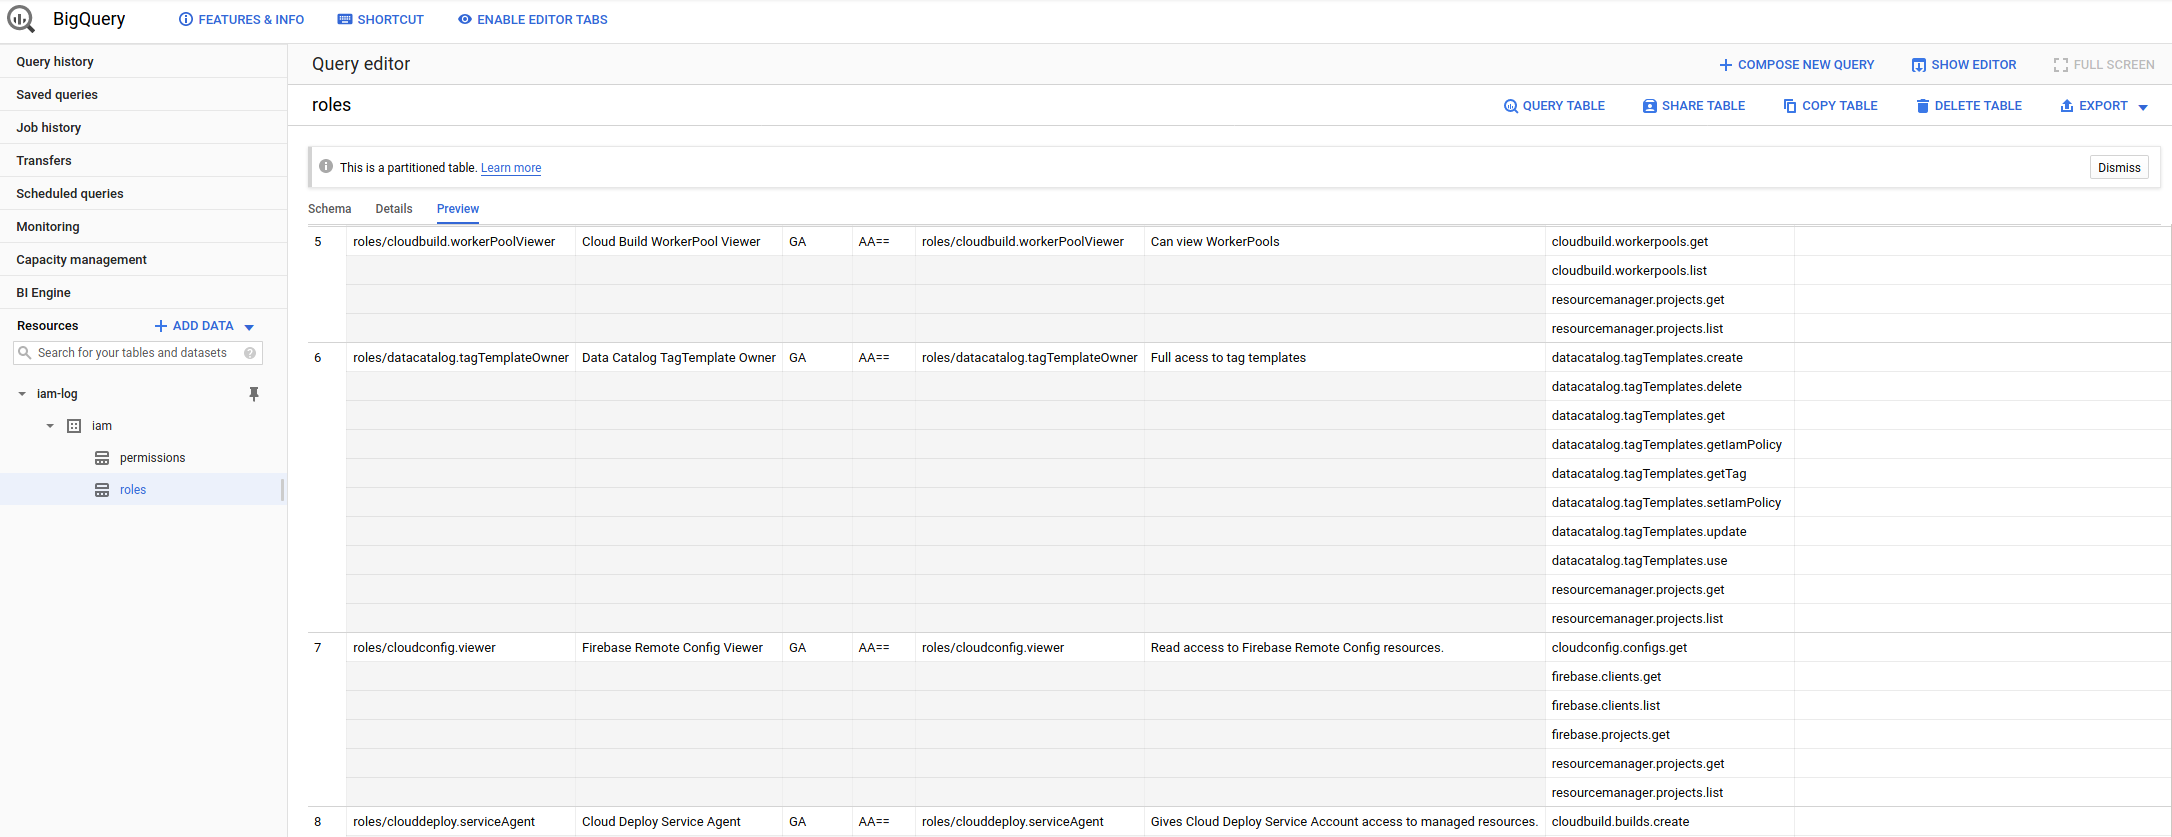
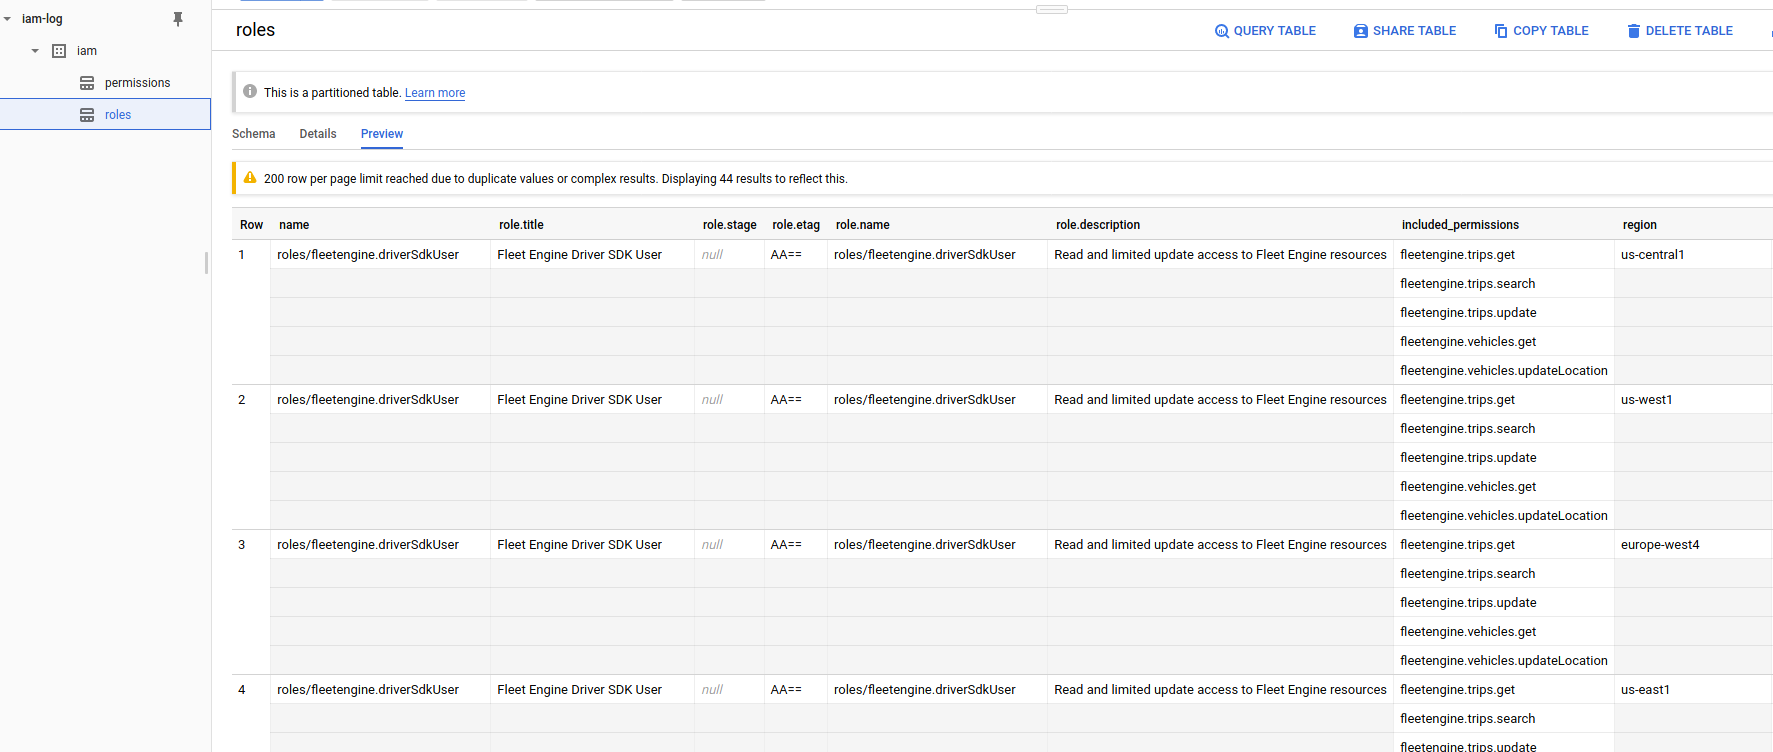
add all regions

diff --git a/server.go b/server.go
@@ -27,6 +27,7 @@ type Role struct {
 	Name                string   `json:"name"`
 	Role                iam.Role `json:"role"`
 	IncludedPermissions []string `json:"included_permissions"`
+	Region              string   `json:"region"`
 }
 
 type Permissions struct {
@@ -35,8 +36,9 @@ type Permissions struct {
 
 type Permission struct {
 	//Permission iam.Permission // there's no direct way to query a given permission detail!
-	Name  string   `json:"name"`
-	Roles []string `json:"roles"`
+	Name   string   `json:"name"`
+	Roles  []string `json:"roles"`
+	Region string   `json:"region"`
 }
 
 const (
@@ -56,6 +58,7 @@ var (
 	projects    = make([]*cloudresourcemanager.Project, 0)
 	bqDataset   = flag.String("bqDataset", os.Getenv("BQ_DATASET"), "BigQuery Dataset to write to")
 	bqProjectID = flag.String("bqProjectID", os.Getenv("BQ_PROJECTID"), "Project for the BigQuery Dataset to write to")
+	region      = flag.String("region", os.Getenv("REGION"), "Region where IAM roles/permissions query is run")
 	permissions = &Permissions{}
 	roles       = &Roles{}
 	limiter     *rate.Limiter
@@ -74,16 +77,18 @@ var (
 				{Name: "description", Type: bigquery.StringFieldType},
 			}},
 		{Name: "included_permissions", Type: bigquery.StringFieldType, Repeated: true},
+		{Name: "region", Type: bigquery.StringFieldType, Required: true},
 	}
 
 	permissionsSchema = bigquery.Schema{
 		{Name: "name", Type: bigquery.StringFieldType, Required: true},
 		{Name: "roles", Type: bigquery.StringFieldType, Repeated: true},
+		{Name: "region", Type: bigquery.StringFieldType, Required: true},
 	}
 )
 
 func fronthandler(w http.ResponseWriter, r *http.Request) {
-	fmt.Println("/ called")
+	fmt.Printf("/ called for region %s\n", *region)
 
 	ctx := context.Background()
 	crmService, err := cloudresourcemanager.NewService(ctx)
@@ -201,7 +206,7 @@ func fronthandler(w http.ResponseWriter, r *http.Request) {
 			return
 		}
 	}
-	fmt.Printf("Uploading [%d] Roles\n", len(roles.Roles))
+	fmt.Printf("Uploading [%d] Roles from region [%s]\n", len(roles.Roles), *region)
 
 	var rlines []string
 	for _, v := range roles.Roles {
@@ -270,7 +275,7 @@ func fronthandler(w http.ResponseWriter, r *http.Request) {
 		}
 	}
 
-	fmt.Printf("Uploading [%d] Permissions\n", len(permissions.Permissions))
+	fmt.Printf("Uploading [%d] Permissions from region [%s]\n", len(permissions.Permissions), *region)
 
 	var plines []string
 	for _, v := range permissions.Permissions {
@@ -362,6 +367,7 @@ func generateMap(ctx context.Context, parent string) error {
 					Name:                sa.Name,
 					Role:                *sa,
 					IncludedPermissions: rc.IncludedPermissions,
+					Region:              *region,
 				}
 				cmutex.Lock()
 				_, ok := find(roles.Roles, sa.Name)
@@ -377,8 +383,9 @@ func generateMap(ctx context.Context, parent string) error {
 					i, ok := find(permissions.Permissions, perm)
 					if !ok {
 						permissions.Permissions = append(permissions.Permissions, Permission{
-							Name:  perm,
-							Roles: []string{sa.Name},
+							Name:   perm,
+							Roles:  []string{sa.Name},
+							Region: *region,
 						})
 					} else {
 						p := permissions.Permissions[i]

diff --git a/README.md b/README.md
@@ -5,7 +5,7 @@ Bigquery DataSet that contains a daily snapshot of all _Standard_ Google Cloud I
 
 Its like this:
 
-1. Everyday at 1am bora-bora time, a cloud scheduler securely triggers a Cloud Run application
+1. Everyday at 1am bora-bora time, a cloud scheduler securely triggers  Cloud Run application in various global regions
 2. Cloud Run iterates over all Roles and Permissions Google Cloud Publishes
 3. Cloud Run loads Permissions and Roles into two [daily partitioned tables](https://cloud.google.com/bigquery/docs/partitioned-tables#ingestion_time) in a *PUBLIC* BigQuery Dataset
 4. Users query the two tables to see daily differences in new Roles and Permissions GCP published
@@ -27,6 +27,11 @@ $ bq show --format=prettyjson --schema iam-log:iam.permissions
   {
     "mode": "REPEATED",
     "name": "roles",
+    "type": "STRING"
+  },
+  {
+    "mode": "REQUIRED",
+    "name": "region",
     "type": "STRING"
   }
 ]
@@ -73,13 +78,17 @@ $ bq show --format=prettyjson --schema iam-log:iam.roles
     "mode": "REPEATED",
     "name": "included_permissions",
     "type": "STRING"
-  }
+  },
+  {
+    "mode": "REQUIRED",
+    "name": "region",
+    "type": "STRING"
+  }  
 ]
 ```
 
 ![images/roles.png](images/roles.png)
 
->> Note IAM permissions and roles rollout gradually in different regions.  The permission/role set retrieved by cloud run on any given day will reflect the state/view at that cell that cloud run connected to to retrieved the roles/permissions
 ### But wait, i want to same thing for my custom roles in my org?
 
 thats not a problem, you're free to run your own (see the `diy` section below).
@@ -130,8 +139,9 @@ SELECT
 FROM
   iam-log.iam.permissions AS d1, UNNEST(roles) r1
 WHERE
-  d1._PARTITIONTIME = TIMESTAMP("2021-09-18")
+  d1._PARTITIONTIME = TIMESTAMP("2021-09-19")
   AND d1.name = "storage.objects.get"
+  AND d1.region = "us-central1"
 '
 ```
 
@@ -144,10 +154,12 @@ bq query --nouse_legacy_sql  '
 SELECT
   p1
 FROM
-  iam-log.iam.roles as d1, UNNEST(included_permissions) p1
+  iam-log.iam.roles AS d1,
+  UNNEST(included_permissions) p1
 WHERE
-  d1._PARTITIONTIME = TIMESTAMP("2021-09-18")
+  d1._PARTITIONTIME = TIMESTAMP("2021-09-19")
   AND d1.name = "roles/serverless.serviceAgent"
+  AND d1.region = "us-central1"
 '
 ```
 
@@ -161,13 +173,15 @@ FROM
   iam-log.iam.roles AS d1
 WHERE
   d1._PARTITIONTIME = TIMESTAMP("2021-09-20")
+  AND d1.region = "us-central1"
   AND d1.name NOT IN (
   SELECT
     d2.name
   FROM
     iam-log.iam.roles AS d2
   WHERE
-    d2._PARTITIONTIME = TIMESTAMP("2021-09-19"))
+    d2._PARTITIONTIME = TIMESTAMP("2021-09-19")
+    AND d2.region = "us-central1")
 '
 ```
 
@@ -181,13 +195,144 @@ FROM
   iam-log.iam.permissions AS d1
 WHERE
   d1._PARTITIONTIME = TIMESTAMP("2021-09-20")
+  AND d1.region = "us-central1"  
   AND d1.name NOT IN (
   SELECT
     d2.name
   FROM
     iam-log.iam.permissions AS d2
   WHERE
-    d2._PARTITIONTIME = TIMESTAMP("2021-09-19"))
+    d2._PARTITIONTIME = TIMESTAMP("2021-09-19")
+    AND d2.region = "us-central1")
+'
+```
+
+#### Find which Permissions added/removed permissions between two regions on the same day
+
+IAM permissions and roles rollout gradually in different regions.  The permission/role set retrieved by cloud run on any given day will reflect the state/view at that cell that cloud run connected to to retrieved the roles/permissions
+
+To (somewhat imprecisely) account for this, this script deploys about several different cloud run instances in different [Cloud Run Regions](https://cloud.google.com/run/docs/locations) globally.  The idea is that each cloud run instance that is invoked will query the IAM permission active sets within a region.  This is ofcourse not a guarantee since a CR instance can query a different region, but its likely that it stays in region and reflects a local map.   This script also just iterates over the following regions that are globally available.  If needed, tune this to your needs for wherever you deploy within your organization
+
+```bash
+export REGIONS=asia-east1,asia-northeast1,asia-northeast2,europe-north1,europe-west1,europe-west4,us-central1,us-east1,us-east4,us-west1,asia-east2,asia-northeast3,asia-southeast1,asia-southeast2,asia-south1,asia-south2,australia-southeast1,australia-southeast2,europe-central2,europe-west2,europe-west3,europe-west6,northamerica-northeast1,northamerica-northeast2,southamerica-east1,us-west2,us-west3,us-west4
+```
+
+To see the differences in permissions today between two regions:
+
+```sql
+$ bq query --nouse_legacy_sql  '
+SELECT
+  d1.name
+FROM
+  iam-log.iam.permissions AS d1
+WHERE
+  d1._PARTITIONTIME = TIMESTAMP("2021-09-19")
+  AND d1.region = "us-east4"  
+  AND d1.name NOT IN (
+  SELECT
+    d2.name
+  FROM
+    iam-log.iam.permissions AS d2
+  WHERE
+    d2._PARTITIONTIME = TIMESTAMP("2021-09-19")
+    AND d2.region = "us-central1")
+'
+
+    +-------------------------------------------------------------------+
+    |                               name                                |
+    +-------------------------------------------------------------------+
+    | recommender.cloudsqlIdleInstanceRecommendations.update            |
+    | recommender.cloudsqlInstanceActivityInsights.update               |
+    | recommender.cloudsqlInstanceCpuUsageInsights.update               |
+    | recommender.cloudsqlInstanceMemoryUsageInsights.update            |
+    | recommender.cloudsqlOverprovisionedInstanceRecommendations.update |
+    | recommender.cloudsqlIdleInstanceRecommendations.get               |
+    | recommender.cloudsqlInstanceActivityInsights.get                  |
+    | recommender.cloudsqlInstanceCpuUsageInsights.get                  |
+    | recommender.cloudsqlInstanceMemoryUsageInsights.get               |
+    | recommender.cloudsqlOverprovisionedInstanceRecommendations.get    |
+    | recommender.cloudsqlIdleInstanceRecommendations.list              |
+    | recommender.cloudsqlInstanceActivityInsights.list                 |
+    | recommender.cloudsqlInstanceCpuUsageInsights.list                 |
+    | recommender.cloudsqlInstanceMemoryUsageInsights.list              |
+    | recommender.cloudsqlOverprovisionedInstanceRecommendations.list   |
+    +-------------------------------------------------------------------+
+```
+
+In this case `us-east4` has these extra permissions visible when compared to `us-central`
+
+![images/rollout.png](images/rollout.png)
+
+#### Find number of Permissions visible per Region
+
+```sql
+$ bq query --nouse_legacy_sql  '
+SELECT
+  d1.region,
+  COUNT(*) AS num_permissions
+FROM
+  iam-log.iam.permissions AS d1
+WHERE
+  d1._PARTITIONTIME = TIMESTAMP("2021-09-19")
+GROUP BY
+  d1.region
+ORDER BY 
+  num_permissions DESC, d1.region
+'
+```
+
+eg for `9/19/19`
+
+```
+    +-------------------------+-----------------+
+    |         region          | num_permissions |
+    +-------------------------+-----------------+
+    | europe-central2         |            4730 |
+    | europe-north1           |            4730 |
+    | europe-west1            |            4730 |
+    | europe-west2            |            4730 |
+    | europe-west3            |            4730 |
+    | europe-west4            |            4730 |
+    | europe-west6            |            4730 |
+    | northamerica-northeast1 |            4730 |
+    | northamerica-northeast2 |            4730 |
+    | southamerica-east1      |            4730 |
+    | us-east1                |            4730 |
+    | us-east4                |            4730 |
+    | asia-east1              |            4715 |
+    | asia-east2              |            4715 |
+    | asia-northeast1         |            4715 |
+    | asia-northeast2         |            4715 |
+    | asia-northeast3         |            4715 |
+    | asia-south1             |            4715 |
+    | asia-south2             |            4715 |
+    | asia-southeast1         |            4715 |
+    | asia-southeast2         |            4715 |
+    | australia-southeast1    |            4715 |
+    | australia-southeast2    |            4715 |
+    | us-central1             |            4715 |
+    | us-west1                |            4715 |
+    | us-west2                |            4715 |
+    | us-west3                |            4715 |
+    | us-west4                |            4715 |
+    +-------------------------+-----------------+
+```
+
+#### Find number of Roles visible per Region
+
+```sql
+$ bq query --nouse_legacy_sql  '
+SELECT
+  d1.region,
+  COUNT(*) AS num_roles
+FROM
+  iam-log.iam.roles AS d1
+WHERE
+  d1._PARTITIONTIME = TIMESTAMP("2021-09-19")
+GROUP BY
+  d1.region
+ORDER BY 
+  num_roles DESC, d1.region
 '
 ```
 
@@ -204,7 +349,6 @@ First pick a project
 ```bash
 export PROJECT_ID=`gcloud config get-value core/project`
 export PROJECT_NUMBER=`gcloud projects describe $PROJECT_ID --format="value(projectNumber)"`
-
 
 # get the organizationID:
 $ gcloud organizations list
@@ -264,12 +408,9 @@ gcloud iam service-accounts create iam-audit-account --display-name "IAM Audit S
 gcloud iam service-accounts add-iam-policy-binding iam-audit-account@$PROJECT_ID.iam.gserviceaccount.com \
    --member=serviceAccount:service-$PROJECT_NUMBER@serverless-robot-prod.iam.gserviceaccount.com  --role=roles/run.serviceAgent
 
-# deploy the app, note the BQ_DATASET and BQ_PROEJCTID values. Thats the dataset and project the updates will get written to
-gcloud run deploy iam-audit  --image gcr.io/$PROJECT_ID/iam_audit  \
-  --region us-central1  --platform=managed --max-instances=1 --timeout=300s --memory=1G \
-  --service-account=iam-audit-account@$PROJECT_ID.iam.gserviceaccount.com  --set-env-vars "BQ_DATASET=iam"  --set-env-vars "BQ_PROJECTID=$PROJECT_ID"  -q
+export REGIONS=asia-east1,asia-northeast1,asia-northeast2,europe-north1,europe-west1,europe-west4,us-central1,us-east1,us-east4,us-west1,asia-east2,asia-northeast3,asia-southeast1,asia-southeast2,asia-south1,asia-south2,australia-southeast1,australia-southeast2,europe-central2,europe-west2,europe-west3,europe-west6,northamerica-northeast1,northamerica-northeast2,southamerica-east1,us-west2,us-west3,us-west4
 
-export RUN_URL=`gcloud run services describe iam-audit --format="value(status.address.url)"`
+./deploy_run.sh
 ```
 
 Add IAM permissions to CloudRun to cloud run.  These steps should be run as an admin
@@ -285,6 +426,9 @@ gcloud projects  add-iam-policy-binding $PROJECT_ID \
    --member=serviceAccount:iam-audit-account@$PROJECT_ID.iam.gserviceaccount.com --role=roles/bigquery.jobUse
 ```
 
+Since the `$REGION` contains all available regions, there will be one Run instance per region
+
+![images/cloud_run_instances.png](images/cloud_run_instances.png)
 
 #### Create Cloud Scheduler
 
@@ -296,23 +440,20 @@ gcloud iam service-accounts create schedulerunner --display-name="Task Schedule 
 gcloud iam service-accounts add-iam-policy-binding  schedulerunner@$PROJECT_ID.iam.gserviceaccount.com \
     --member=serviceAccount:service-$PROJECT_NUMBER@gcp-sa-cloudscheduler.iam.gserviceaccount.com --role=roles/cloudscheduler.serviceAgent
 
-# set permissions to allow cloud scheduler to call cloud run
-gcloud run  services add-iam-policy-binding iam-audit --region=us-central1 \
-  --member=serviceAccount:schedulerunner@$PROJECT_ID.iam.gserviceaccount.com --role=roles/run.invoker
-
-# run every morning at 1am bora-bora time
-gcloud scheduler jobs create http iam-scheduler --http-method=GET --schedule "0 1 * * *" \
-  --attempt-deadline=420s --time-zone="Pacific/Tahiti" \
-  --oidc-service-account-email=schedulerunner@$PROJECT_ID.iam.gserviceaccount.com  \
-  --oidc-token-audience=$RUN_URL --uri=$RUN_URL
+./deploy_scheduler.sh
 ```
 
 Note, if you trigger cloud run multiple times over a partition, duplicate roles/permissions will be added to BQ since its an append.  To account for that, you could construct a BQ query to look for DISTINCT.  (again, i don't know enough sql to show that)
 
+Since the `$REGION` contains all available regions, there will be one Scheduler pointing to Cloud Run per per region
+
+![images/scheduler_instances.png](images/scheduler_instances.png)
+
 #### Create Dataset
 
 ```bash
-bq --location=US mk iam
+# configure each partition for 30days
+bq --location=US mk --dataset --default_partition_expiration=2592000 iam
 
 # export the permission set the BQ dataset has
 bq show --format=prettyjson iam > /tmp/mydataset.json
